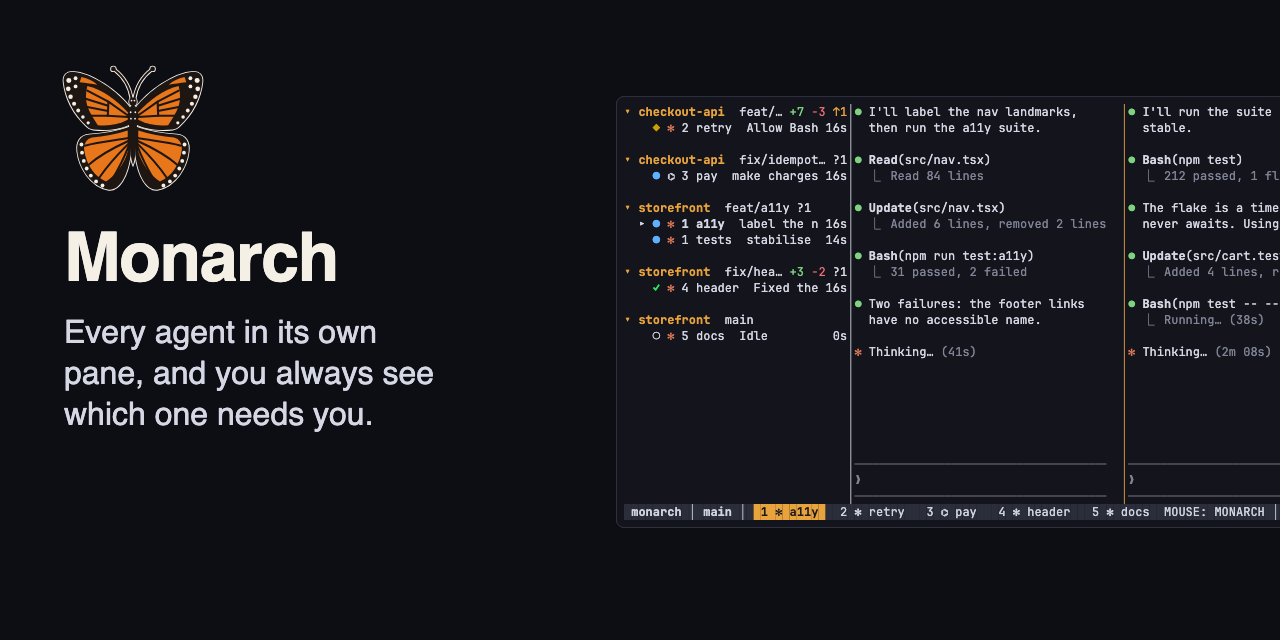
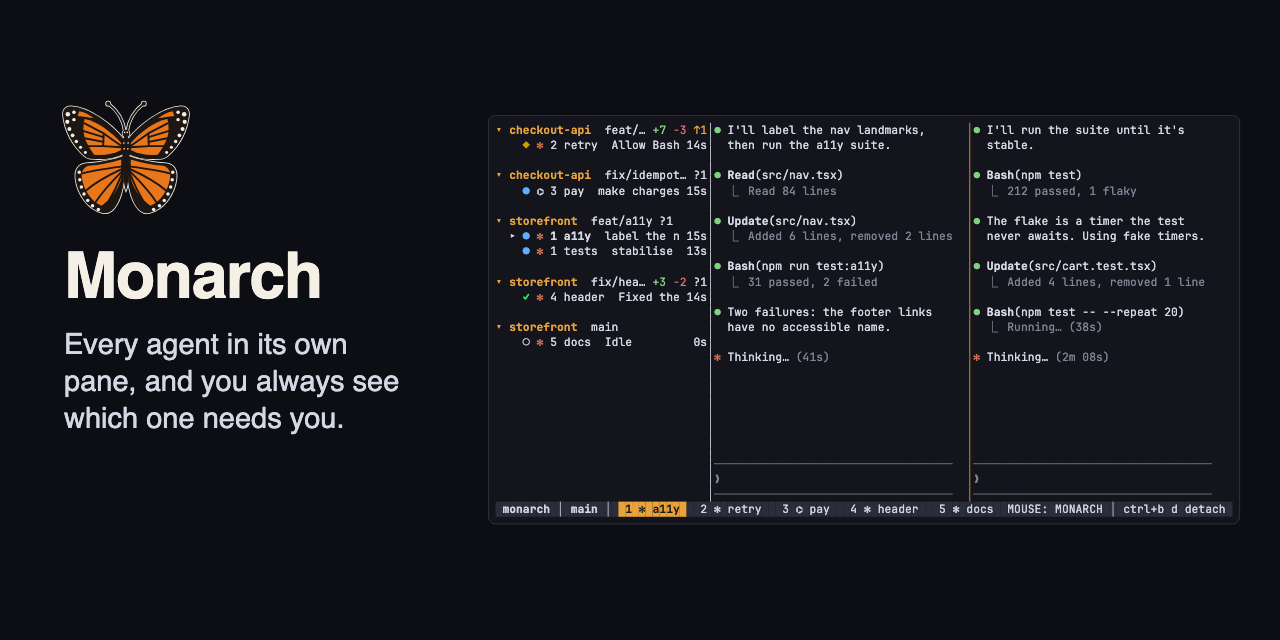
docs(assets): the social preview shows the whole screen, closer to the words (#114)
The social preview had a wide gap between the words and the screenshot,
and the screenshot ran off the right edge. It is now scaled to fit
beside the words with a 40 px right margin, centred vertically, with a
narrower words column and about 90 px between them.
`scripts/readme_shots.py --only social` regenerates just this image.

After merging, upload `docs/assets/social-preview.png` again under
Settings → Social preview.

🤖 Generated with [Claude Code](https://claude.com/claude-code)

diff --git a/scripts/readme_shots.py b/scripts/readme_shots.py
@@ -847,18 +847,21 @@ def record_restored(monarch, out):
 
 
 def social(host, out):
-    """The image GitHub shows when the repository's link is shared."""
-    screen = page(host.snapshot(), Shot())[0]
+    """The image GitHub shows when the repository's link is shared: the
+    words at the left, the whole screen at the right, nothing cut off."""
+    screen, shot_w, shot_h = page(host.snapshot(), Shot())
+    SOCIAL_SCALE = round((1280 - 488 - 40) / shot_w, 4)
+    SOCIAL_SHOT_H = round(shot_h * SOCIAL_SCALE)
     with open(os.path.join(os.path.dirname(os.path.abspath(__file__)), "../docs/assets/logo.svg")) as f:
         logo = f.read()
     style, body = screen.split("</style>", 1)
     doc = f"""{style}
 html,body{{width:1280px;height:640px;overflow:hidden;background:#0d0e13}}
-.card{{position:absolute;left:64px;top:56px;width:520px;font-family:-apple-system,'Segoe UI',Helvetica,Arial,sans-serif;color:#f5f0e6}}
-.card svg{{position:static;width:150px;height:150px;display:block;margin:0 0 18px -6px}}
-h1{{font-size:68px;line-height:1;margin:0 0 20px;font-weight:700;letter-spacing:-.02em}}
-p{{font-size:32px;line-height:1.28;margin:0;color:#d5d8e4;text-wrap:balance}}
-.shot{{position:absolute;left:616px;top:96px;transform-origin:0 0;transform:scale(.8)}}
+.card{{position:absolute;left:64px;top:92px;width:400px;font-family:-apple-system,'Segoe UI',Helvetica,Arial,sans-serif;color:#f5f0e6}}
+.card svg{{position:static;width:136px;height:136px;display:block;margin:0 0 16px -6px}}
+h1{{font-size:64px;line-height:1;margin:0 0 18px;font-weight:700;letter-spacing:-.02em}}
+p{{font-size:29px;line-height:1.28;margin:0;color:#d5d8e4;text-wrap:balance}}
+.shot{{position:absolute;left:488px;top:{(640 - SOCIAL_SHOT_H) // 2}px;transform-origin:0 0;transform:scale({SOCIAL_SCALE})}}
 </style><div class=card>{logo}<h1>Monarch</h1><p>Every agent in its own pane, and you always see which one needs you.</p></div>
 <div class=shot>{body}</div>"""
     src = os.path.join(out, "social.html")
@@ -887,7 +890,8 @@ def main():
     ap = argparse.ArgumentParser()
     ap.add_argument("monarch")
     ap.add_argument("out")
-    ap.add_argument("--only", choices=["hero", "stills", "welcome", "restored"], help="capture just one set")
+    ap.add_argument("--only", choices=["hero", "stills", "social", "welcome", "restored"],
+                    help="capture just one set")
     ap.add_argument("--debug", action="store_true", help="print the opening screen and CLI output")
     args = ap.parse_args()
     monarch, out = os.path.abspath(args.monarch), os.path.abspath(args.out)
@@ -916,6 +920,13 @@ def main():
             record_hero(host, out, root)
         if args.only in (None, "stills"):
             stills(host, out)
+        if args.only == "social":
+            host.set_theme("monarch-dark", animations=False)
+            host.pump(8.0)
+            host.tell("retry", screen=RETRY_ASK, hook=ASK_RETRY)
+            host.tell("header", screen=HEADER, hook=STOP_HEADER)
+            host.pump(1.2)
+            social(host, out)
     finally:
         if host:
             host.close()

diff --git a/docs/plan.md b/docs/plan.md
@@ -381,7 +381,7 @@ Explicitly out of v1: Windows, remote SSH machine management, plugins, image pro
   - [x] Time-in-state (2026-11-06; the first of the §1 attention features still unbuilt): every agent row in the sidebar ends with how long the agent has been in its state (`42s`, `3m`, `2h`, `1d`, dim at the right; the activity makes room for it and gives way when the row is too narrow), and the inbox's right-hand column is `blocked 3m`, sorted within each state by longest wait first (unknown ages last, then tab order). The server's `StateEngine` keeps `(state, UnixMillis)` per pane: `record(pane, state, now)` returns when the state began, kept across activity-only changes and from Done to Finished (the agent finished at that moment; looking at it doesn't restart the clock), `None` for a shell. `SessionState` stamps changes through the new `monarch_core::Clock` seam (`SystemClock`; tests use the server's `FakeClock`), and `ServerMsg::Agent` and `PaneSummary` carry `since: Option<UnixMillis>` (`Hello::WIRE` 5 → 6). Clients age it against their own wall clock (server and client share a machine), `age_label` formats it, and `AttachApp::tick_ages` redraws once a second while any agent has an age and the sidebar or inbox shows it. `AttentionItem` replaces the inbox's four-tuple. Not done: ages in `monarch agent read`/`explain` and the API replies.
   - [x] Turn timing (user's report, 2026-11-06: "when the response finishes, the count still climbs"): the age now counts the turn so far while Working (from the first Working after a rest, kept through a Blocked prompt), the wait while Blocked or Error, and freezes at how long the turn took once it is Done, Finished or Idle (an Idle with no turn behind it shows nothing). `AgentTiming {since, turn_began, took}` replaces the bare stamp on `ServerMsg::Agent` and `PaneSummary` (`Hello::WIRE` 6 → 7); `StateEngine::record` keeps it per pane (`advance`: Working starts a turn unless resuming after Blocked, Blocked keeps it, anything else ends and measures it). The client's `AttachState::age` picks running or frozen by state, `any_running` gates the once-a-second redraw, and the inbox sorts by when the state began (`done in 45s` for a finished turn). Also fixed: a Stop reported on the focused pane with a client attached is Finished at once (`SessionState::watched`, shared with the screen path), where before it stayed Done, bright and in the inbox, until focus left and returned.
   - [x] The stopwatch pauses for a prompt (user's report, 2026-11-06: "when I ask for a prompt, the count didn't pause while waiting and continued to increment"): the sidebar number is now the turn's working time only. `AgentTiming {since, working_since, worked}` (`Hello::WIRE` 7 → 8): Working starts a span (a new turn from zero, or resuming the turn's `worked` after Blocked), anything else closes the span into `worked`, so Blocked, Done, Finished, Idle and Error all hold the stopwatch (`AgentTiming::worked_at(now)` on the client; `any_running` is Working with an open span). The inbox keeps the wait: `AttentionItem::waited` (from `since`) gives `blocked 3m`, while `done in 45s` is the turn's working time.
-  - [x] Agent info overlay and go-to state filters (2026-11-06; two §1 UX items from the keys table): `prefix i` (`Action::AgentInfo`, `agent-info`, client-local, all presets) opens `AgentInfo` on the focused pane and sends the new attach message `ClientMsg::Explain(pane)`; the server runs `ServerContext::explain` for that pane on a blocking thread (`attach_connection/explain.rs`, sharing the worktree handler's `answer`) and the asking client alone gets `ServerMsg::Explained {pane, explained: Option<Box<PaneExplanation>>}` (`Hello::WIRE` 8 → 9). The page (`AgentInfoView`, drawn by the new `PageView` the help page now also uses: a titled box of `HelpLine`s with a footer and a scroll) shows the state with how long it has been there and the signal (`◆ Blocked for 3m · from its hooks`), the activity, the program, what the screen shows to the manifest and the rule that fired, then "Recent states, oldest first" (`3m ago  ● Working · from its hooks · Bash ls`) and every rule, `▶` the winner and `✓` other matches with the end of what they read. It follows the agent: a `ServerMsg::Agent` for that pane (`Applied.agents`) asks again, `r` asks by hand, the ages redraw once a second while it is open; `↑↓`/`j`/`k`, pages, `g`/`G` scroll; Esc, `q`, `i` close. For the history the server's `StateEngine` keeps the last 8 transitions per pane (`state_engine/transitions.rs`: `log` on every status change, a new entry when the state or source differs, an activity-only change updating the latest; cleared when the pane is a shell again or exits) and `PaneExplanation` gained `transitions: Vec<AgentTransition {state, source, activity, at}>`, so `monarch agent explain p3` prints a `history` block too. The go-to picker is now `GoToPicker` (`Popups.goto`, pure, wrapping `Picker` over `GoToPane` rows): with nothing typed, `b`/`w`/`i`/`d` narrow it to blocked, working, idle or done (Done or Finished) agents, the title says `go to pane · blocked`, the same key again or Backspace widens, and typing then searches within the filter; rows show the agent's state at the right where they said nothing (`here` still wins), and an open picker refreshes as states change. Guide, README, help page (Agents group, pop-up keys) and the key popup updated (three columns still fit 80 cells). Verified end to end in a scripted session: hook reports Working then Blocked, `prefix i` shows `◆ Blocked for 1s · from its hooks`, the activity and both states; `prefix g b` lists only that pane; `monarch agent explain p1` prints the `history` block. README (2026-11-06, PR after #109): the "ask why" passage now leads with `prefix i` and a real still, `docs/assets/agent-info.png` (`scripts/readme_shots.py` opens it on the retry tab and crops the box by its title, as the inbox still), the CLI example shows the `history` block, the inbox paragraph mentions `prefix g` then `b`, and the other stills were regenerated so they show the ages; `social-preview.png` changed too and must be re-uploaded by hand. Not done: an age and timing in the API's explain reply (the client ages the last transition itself); the filter keys only act on an empty query, so a name starting with `b`/`w`/`i`/`d` is found by typing a later letter of it.
+  - [x] Agent info overlay and go-to state filters (2026-11-06; two §1 UX items from the keys table): `prefix i` (`Action::AgentInfo`, `agent-info`, client-local, all presets) opens `AgentInfo` on the focused pane and sends the new attach message `ClientMsg::Explain(pane)`; the server runs `ServerContext::explain` for that pane on a blocking thread (`attach_connection/explain.rs`, sharing the worktree handler's `answer`) and the asking client alone gets `ServerMsg::Explained {pane, explained: Option<Box<PaneExplanation>>}` (`Hello::WIRE` 8 → 9). The page (`AgentInfoView`, drawn by the new `PageView` the help page now also uses: a titled box of `HelpLine`s with a footer and a scroll) shows the state with how long it has been there and the signal (`◆ Blocked for 3m · from its hooks`), the activity, the program, what the screen shows to the manifest and the rule that fired, then "Recent states, oldest first" (`3m ago  ● Working · from its hooks · Bash ls`) and every rule, `▶` the winner and `✓` other matches with the end of what they read. It follows the agent: a `ServerMsg::Agent` for that pane (`Applied.agents`) asks again, `r` asks by hand, the ages redraw once a second while it is open; `↑↓`/`j`/`k`, pages, `g`/`G` scroll; Esc, `q`, `i` close. For the history the server's `StateEngine` keeps the last 8 transitions per pane (`state_engine/transitions.rs`: `log` on every status change, a new entry when the state or source differs, an activity-only change updating the latest; cleared when the pane is a shell again or exits) and `PaneExplanation` gained `transitions: Vec<AgentTransition {state, source, activity, at}>`, so `monarch agent explain p3` prints a `history` block too. The go-to picker is now `GoToPicker` (`Popups.goto`, pure, wrapping `Picker` over `GoToPane` rows): with nothing typed, `b`/`w`/`i`/`d` narrow it to blocked, working, idle or done (Done or Finished) agents, the title says `go to pane · blocked`, the same key again or Backspace widens, and typing then searches within the filter; rows show the agent's state at the right where they said nothing (`here` still wins), and an open picker refreshes as states change. Guide, README, help page (Agents group, pop-up keys) and the key popup updated (three columns still fit 80 cells). Verified end to end in a scripted session: hook reports Working then Blocked, `prefix i` shows `◆ Blocked for 1s · from its hooks`, the activity and both states; `prefix g b` lists only that pane; `monarch agent explain p1` prints the `history` block. README (2026-11-06, PR after #109): the "ask why" passage now leads with `prefix i` and a real still, `docs/assets/agent-info.png` (`scripts/readme_shots.py` opens it on the retry tab and crops the box by its title, as the inbox still), the CLI example shows the `history` block, the inbox paragraph mentions `prefix g` then `b`, and the other stills were regenerated so they show the ages; `social-preview.png` changed too and must be re-uploaded by hand. Social preview relaid (user's report, 2026-11-06: too much space between the words and the screen, and the screen ran off the right edge): the whole screen now fits at the right (`social()` scales it to the room left of a 40 px margin and centres it vertically), the words column is narrower and the gap about 90 px; `readme_shots.py --only social` regenerates just that image, which still needs uploading by hand. Not done: an age and timing in the API's explain reply (the client ages the last transition itself); the filter keys only act on an empty query, so a name starting with `b`/`w`/`i`/`d` is found by typing a later letter of it.
   - [x] Key popup alignment (user's report, 2026-11-06: "when I do prefix and the commands pop up, the alignment is unclear"): the key column was padded to the widest entry (`hjkl ←↓↑→`), so a one-character key sat ten cells from its own label and five from the next column's, which the eye paired it with. `WhichKey` now right-aligns each key against its label (two cells apart, the column gap three) and draws keys in the theme's accent (`Chrome::key`; bold alone under `NO_COLOR`) through a new `chrome` field. A wider gap was tried and dropped: at 80 cells it cost the third column and hid 11 keys.
 - Next up: the open M1 spikes and known gaps below. v0.1.1 was released on 2026-11-07 (release PR #102: the agent info overlay and go-to filters, time in state, config settings acted on, key popup fixes; the README's two version mentions, the comparison's latest release and the `cargo install --tag` line, are updated by hand after each release). v0.1.0 was released on 2026-11-06 (tag, GitHub Release with binaries and installer, Homebrew tap formula); crates.io publishing stays off (`git_only`).
 - Known gaps: switching sessions (`prefix S`) leaves and re-enters the alternate screen, a brief flash of the shell; the client starts the server with its own environment (`monarch server` inherits the attaching shell's cwd and env; fine for one user, revisit for `monarch new`); the startup probe is sent once per attach, not re-sent on FocusGained; the host title is set to the pane's (possibly empty) title on attach and restored on exit; memory is mostly scrollback (≈70 MB per flooded 200-column pane at 10k lines; use `agent_scrollback` for agent panes or compact history later); a pane flooding output costs about one core of parsing even when hidden (inherent to G13; real agents are far below that rate); the writer channel is unbounded (a huge paste into a program that never reads stdin grows memory); mouse reports pass through unre-encoded in the prototype (correct only for one full-screen pane; re-encoding is spike 5); the server must keep the last client's `HostInfo` so panes started before an attach still answer OSC 10/11 with host colours; Claude Code OSC 7501 probe behaviour (spike 2); crates publish as `monarch-mux-*` (`monarch-core` was taken on crates.io; `[lib] name` keeps `monarch_core` imports) and release-plz publishes them in dependency order; releases need repo secrets `RELEASE_PLZ_TOKEN` (PAT), `HOMEBREW_TAP_TOKEN` (PAT with write to `cooksterj/homebrew-monarch`) and `CARGO_REGISTRY_TOKEN`; installer artifact is `monarch-mux-installer.sh`; ratatui has one underline modifier, so undercurl/dotted/dashed/double underlines currently render as plain underline (fix needs a custom backend writer — a G-contract gap); macOS blocks a process exiting until its tty output is drained, so PTY test harnesses must keep reading
